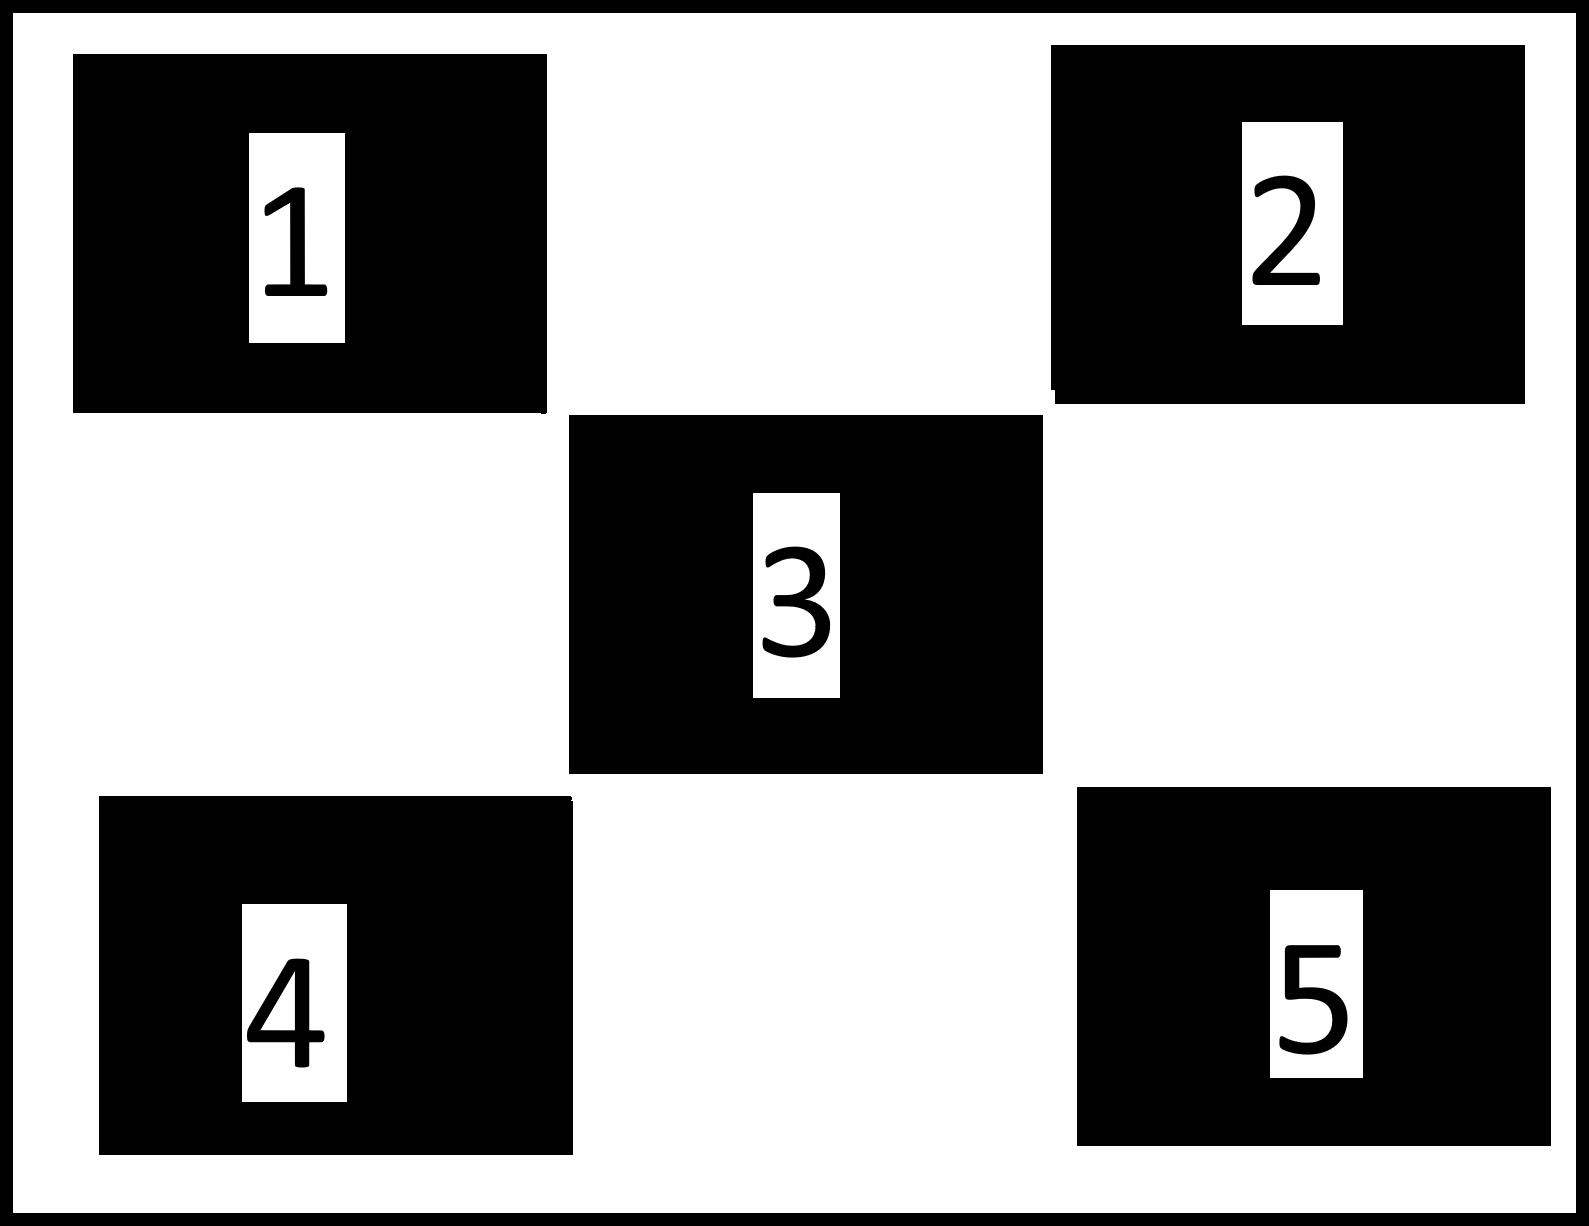
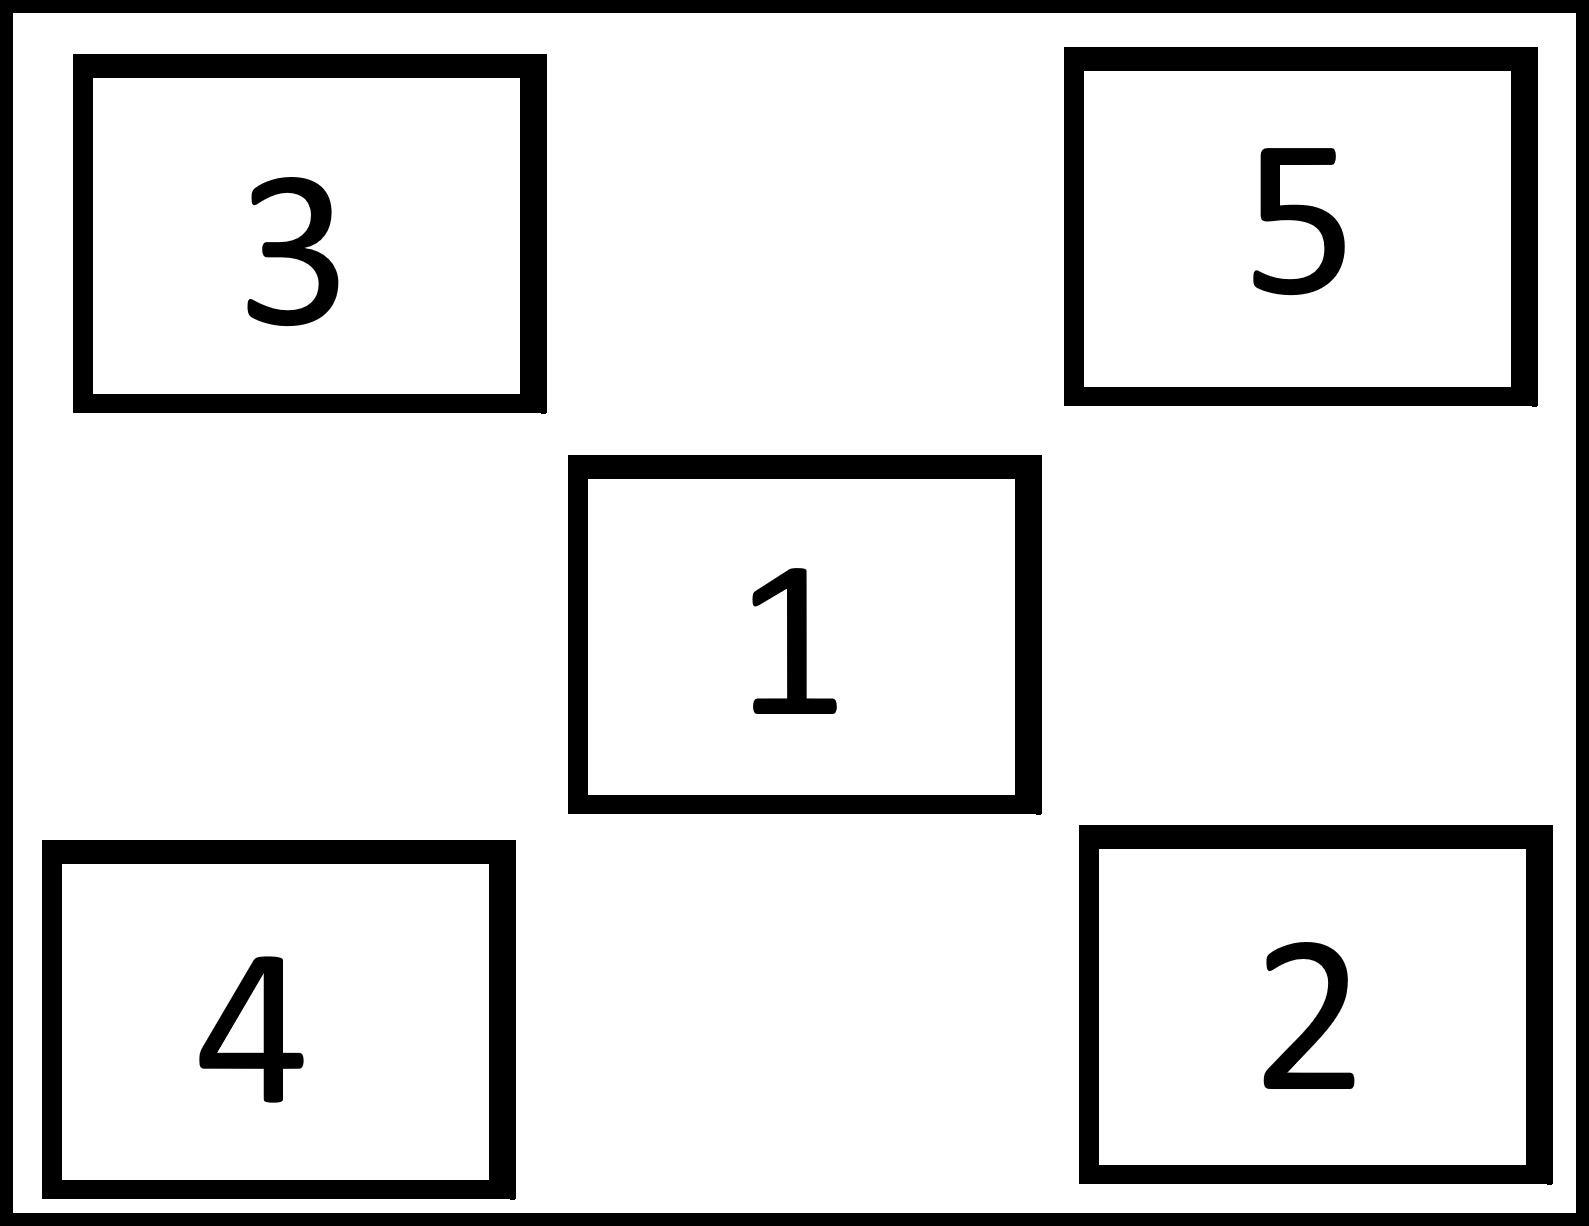
фцв

diff --git a/CBTM/MainWindow.xaml b/CBTM/MainWindow.xaml
@@ -239,6 +239,10 @@
             </Setter>
         </Style>
 
+        
+        
+        
+        
         <!-- Стиль для Label -->
         <Style TargetType="Label">
             <Setter Property="Foreground" Value="White"/>
@@ -333,37 +337,42 @@
                         <StackPanel Orientation="Horizontal" Margin="0,5">
                             <Label Content="M1" Width="60" HorizontalAlignment="Left"/>
                             <TextBox x:Name="M1" Text="left click" Width="100" HorizontalAlignment="Left"/>
+                            <!-- ДОБАВЛЕН СТИЛЬ -->
                             <Button Content="Изменить" x:Name="M1HostButton" Width="86" Height="24"
-                                    Margin="6,0,0,0" Style="{StaticResource DefaultButtonStyle}"
-                                    ToolTip="Назначить действие на ПК (запуск программы или показ текста)"/>
+            Margin="6,0,0,0" Style="{StaticResource DefaultButtonStyle}"
+            ToolTip="Назначить действие на ПК (запуск программы или показ текста)"/>
                         </StackPanel>
                         <StackPanel Orientation="Horizontal" Margin="0,5">
                             <Label Content="M2" Width="60" HorizontalAlignment="Left"/>
                             <TextBox x:Name="M2" Text="right click" Width="100" HorizontalAlignment="Left"/>
+                            <!-- ДОБАВЛЕН СТИЛЬ -->
                             <Button Content="Изменить" x:Name="M2HostButton" Width="86" Height="24"
-                                    Margin="6,0,0,0" Style="{StaticResource DefaultButtonStyle}"
-                                    ToolTip="Назначить действие на ПК (запуск программы или показ текста)"/>
+            Margin="6,0,0,0" Style="{StaticResource DefaultButtonStyle}"
+            ToolTip="Назначить действие на ПК (запуск программы или показ текста)"/>
                         </StackPanel>
                         <StackPanel Orientation="Horizontal" Margin="0,5">
                             <Label Content="M3" Width="60" HorizontalAlignment="Left"/>
                             <TextBox x:Name="M3" Text="middle click" Width="100" HorizontalAlignment="Left"/>
+                            <!-- ДОБАВЛЕН СТИЛЬ -->
                             <Button Content="Изменить" x:Name="M3HostButton" Width="86" Height="24"
-                                    Margin="6,0,0,0" Style="{StaticResource DefaultButtonStyle}"
-                                    ToolTip="Назначить действие на ПК (запуск программы или показ текста)"/>
+            Margin="6,0,0,0" Style="{StaticResource DefaultButtonStyle}"
+            ToolTip="Назначить действие на ПК (запуск программы или показ текста)"/>
                         </StackPanel>
                         <StackPanel Orientation="Horizontal" Margin="0,5">
                             <Label Content="M4" Width="60" HorizontalAlignment="Left"/>
                             <TextBox x:Name="M4" Text="back" Width="100" HorizontalAlignment="Left"/>
+                            <!-- ДОБАВЛЕН СТИЛЬ -->
                             <Button Content="Изменить" x:Name="M4HostButton" Width="86" Height="24"
-                                    Margin="6,0,0,0" Style="{StaticResource DefaultButtonStyle}"
-                                    ToolTip="Назначить действие на ПК (запуск программы или показ текста)"/>
+            Margin="6,0,0,0" Style="{StaticResource DefaultButtonStyle}"
+            ToolTip="Назначить действие на ПК (запуск программы или показ текста)"/>
                         </StackPanel>
                         <StackPanel Orientation="Horizontal" Margin="0,5">
                             <Label Content="M5" Width="60" HorizontalAlignment="Left"/>
                             <TextBox x:Name="M5" Text="forward" Width="100" HorizontalAlignment="Left"/>
+                            <!-- ДОБАВЛЕН СТИЛЬ -->
                             <Button Content="Изменить" x:Name="M5HostButton" Width="86" Height="24"
-                                    Margin="6,0,0,0" Style="{StaticResource DefaultButtonStyle}"
-                                    ToolTip="Назначить действие на ПК (запуск программы или показ текста)"/>
+            Margin="6,0,0,0" Style="{StaticResource DefaultButtonStyle}"
+            ToolTip="Назначить действие на ПК (запуск программы или показ текста)"/>
                         </StackPanel>
                     </StackPanel>
                 </Expander>

diff --git a/CBTM/MainWindow.xaml.cs b/CBTM/MainWindow.xaml.cs
@@ -103,6 +103,7 @@ namespace CBTM
         private bool _isUpdatingPortCombo;
 
         private bool _isAuthenticated;
+        private readonly Dictionary<string, string> _cachedPasswords = new Dictionary<string, string>(StringComparer.OrdinalIgnoreCase);
         private Task<bool>? _authFlowTask;
         private readonly object _awaitResponseLock = new();
         private TaskCompletionSource<string>? _awaitResponseTcs;
@@ -857,6 +858,28 @@ namespace CBTM
                 return false;
             }
 
+
+            if(state == "AUTH_REQUIRED" && _cachedPasswords.TryGetValue(_settings.SelectedPortName, out var cachedCombo))
+            {
+                UpdateStatusBar("Попытка автоматической авторизации...");
+                string? cachedResp = await SendCommandAndAwaitAsync(
+                    $"AUTH:{cachedCombo}",
+                    s => s == "AUTH_OK" || s == "AUTH_FAILED" || s.StartsWith("ERROR", StringComparison.Ordinal));
+
+                if (cachedResp == "AUTH_OK")
+                {
+                    UpdateAuthUiState(true);
+                    _ = RequestSettingsFromDeviceAsync();
+                    return true; // Успешно разблокировали без диалога
+                }
+                else
+                {
+                    // Пароль не подошел (сменился или это другой донгл), удаляем из кэша
+                    _cachedPasswords.Remove(_settings.SelectedPortName);
+                }
+            }
+
+
             if (state == "NO_PASSWORD")
             {
                 while (_isConnected)
@@ -884,6 +907,7 @@ namespace CBTM
 
                     if (resp == "PASSWORD_CHANGED")
                     {
+                        _cachedPasswords[_settings.SelectedPortName] = combo;
                         UpdateAuthUiState(true);
                         _ = RequestSettingsFromDeviceAsync();
                         MessageBox.Show("Пароль установлен.", "Успех", MessageBoxButton.OK, MessageBoxImage.Information);
@@ -921,6 +945,7 @@ namespace CBTM
 
                 if (authResp == "AUTH_OK")
                 {
+                    _cachedPasswords[_settings.SelectedPortName] = combo;
                     UpdateAuthUiState(true);
                     _ = RequestSettingsFromDeviceAsync();
                     return true;
@@ -938,7 +963,7 @@ namespace CBTM
 
         private void CollectSettingsFromUI()
         {
-            _settings.InvertX = InvertXCheckbox.IsChecked ?? false;
+            _settings.InvertX = !(InvertXCheckbox.IsChecked ?? false);
             _settings.InvertY = InvertYCheckbox.IsChecked ?? false;
             _settings.Sensitivity = string.IsNullOrWhiteSpace(SensitivityTextBox.Text) ? "1" : SensitivityTextBox.Text.Trim();
             _settings.Brightness = BrightnessSlider.Value;
@@ -967,7 +992,7 @@ namespace CBTM
 
         private void ApplySettingsToUI()
         {
-            InvertXCheckbox.IsChecked = _settings.InvertX;
+            InvertXCheckbox.IsChecked = !_settings.InvertX;
             InvertYCheckbox.IsChecked = _settings.InvertY;
             SensitivityTextBox.Text = _settings.Sensitivity;
             BrightnessSlider.Value = _settings.Brightness;
@@ -1282,6 +1307,7 @@ namespace CBTM
 
                 if (resp == "PASSWORD_CHANGED")
                 {
+                    _cachedPasswords[_settings.SelectedPortName] = combo;
                     MessageBox.Show("Пароль успешно изменен.", "Успех", MessageBoxButton.OK, MessageBoxImage.Information);
                     return;
                 }
